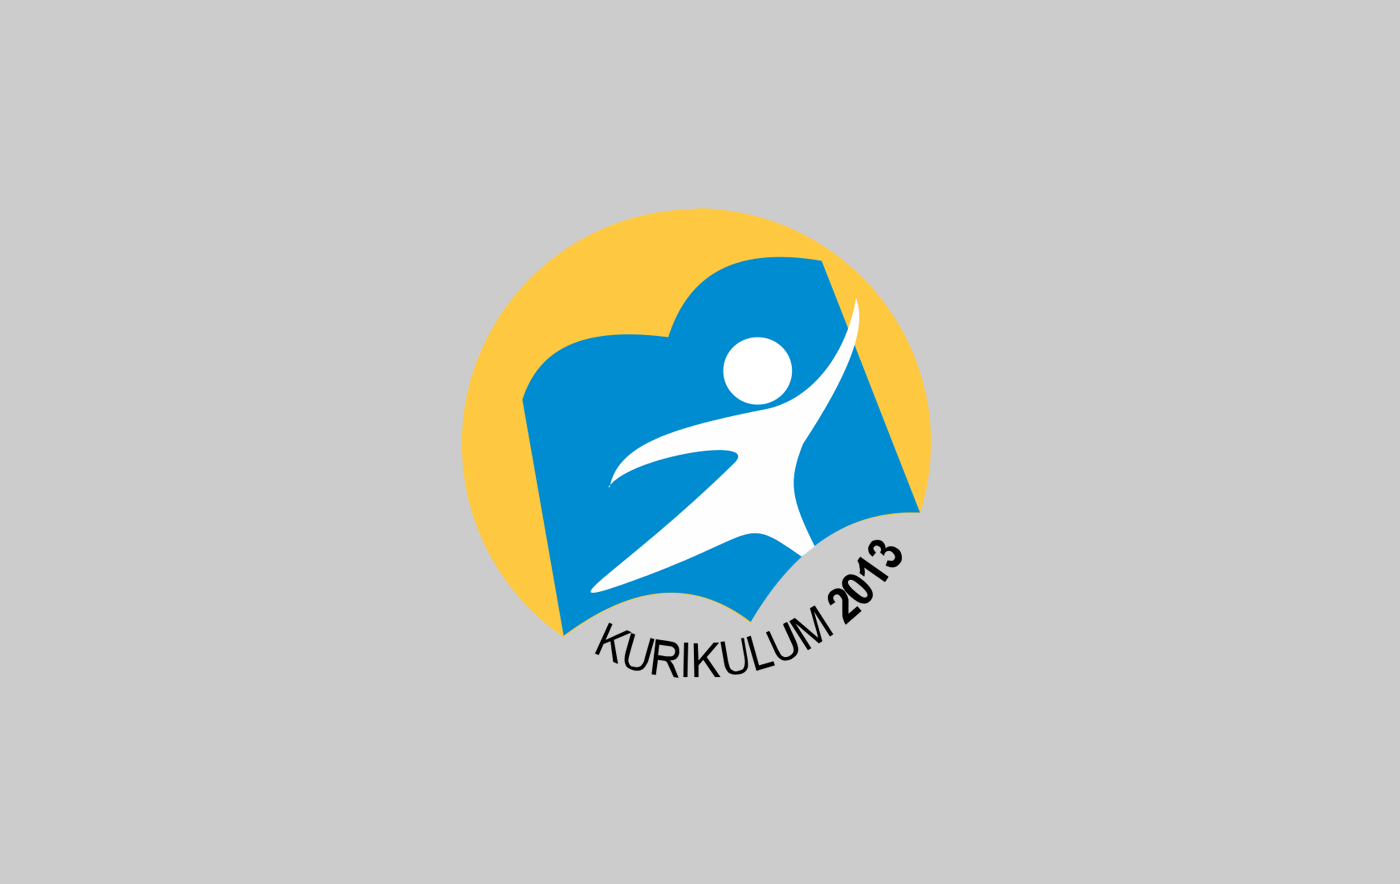
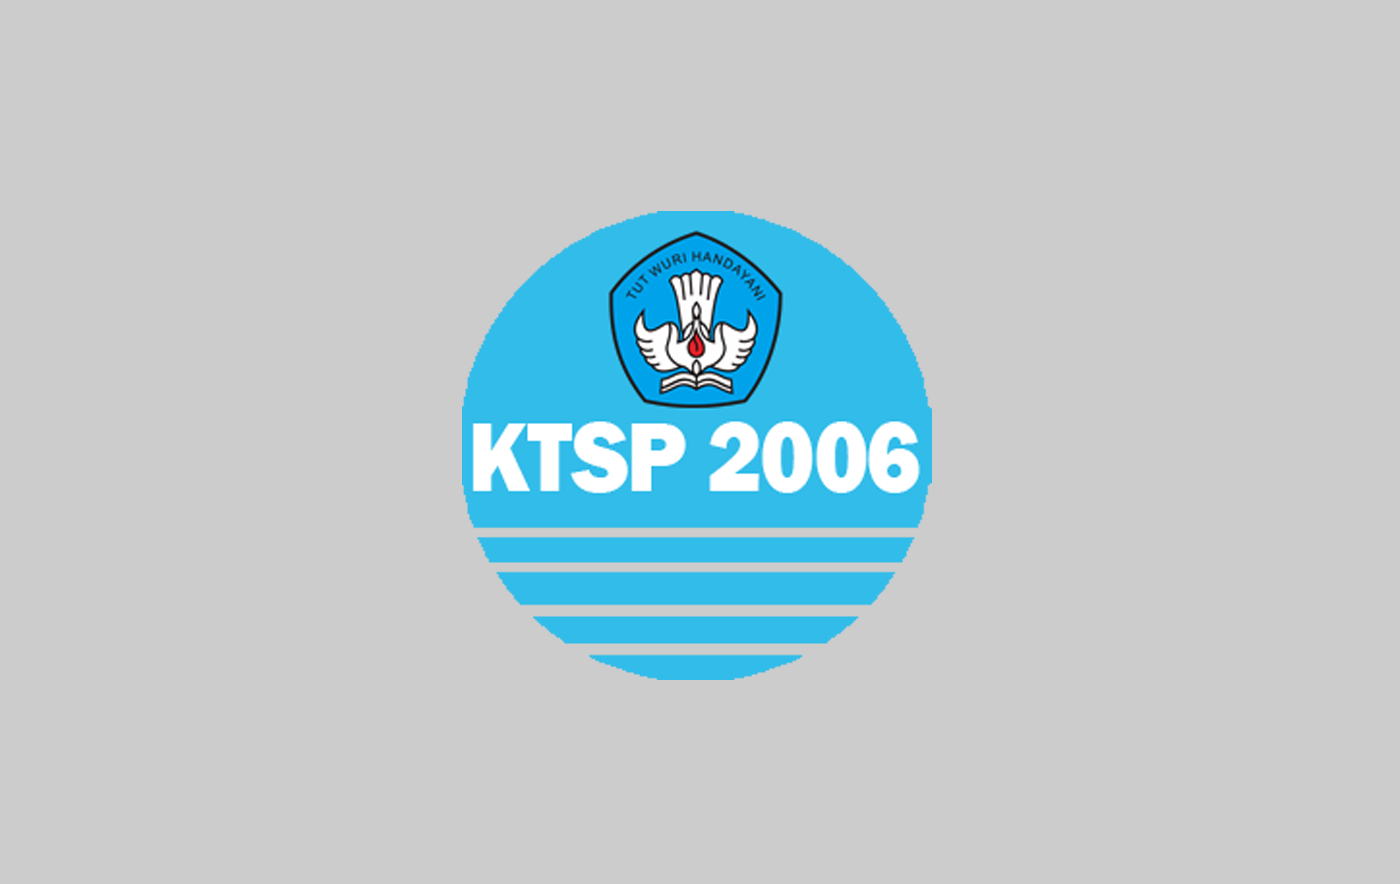
ubah text index dan modal. ganti image slider silabus

Changed region(s): [[0.3071, 0.2138, 0.6757, 0.7941]]

diff --git a/index.php b/index.php
@@ -170,21 +170,21 @@
 							<p class="paragraph">Penilaian adalah suatu proses yang dilakukan untuk mengukur dan menilai pencapaian tujuan pembelajaran serta untuk mengetahui kekuatan dan kelemahan dalam proses pembelajaran. Penilaian hasil belajar oleh pendidik terdiri atas Ulangan Harian, Ulangan Tengah Semester, Ulangan Akhir Semester, dan Ulangan Kenaikan Kelas.</p>
 							<p class="paragraph">Dalam rangka proses penilaian, untuk melaksanakan penilaian tersebut guru menyusun Teknik dan Instrumen Penilaian. Penyusunan Teknik dan Instrumen perlu di lakukan sebaik-baiknya sehingga dapat mengukur kompetensi siswa dan mencapai tujuan pembelajaran. Penyusunan Instrumen juga perlu memperhatikan keterselenggaraannya. Baik diperhatikan indikator pembelajarannya, tingkat berpikirnya, tingkat kesukaran dan daya pembeda yang nantinya akan di susun ke dalam tabel konstruksi soal yang disebut dengan kisi-kisi penyusunan soal.</p>
 							<p class="paragraph">Tapi dalam pelaksanaannya, terdapat banyak kendala bagi guru untuk menyusun konstruksi soal dan penilaian. Hal ini disebabkan oleh banyaknya peran dan tugas guru yang lain selain mengajar dan melakukan penilaian. Menyusun perangkat pembelajaran, mengelola kelas bagi yang bertugas sebagai wali kelas, panggilan siswa dan penanganan kasus, kepanitiaan dalan event-event sekolah yang tentunya semua ini akan menyita waktu. Belum juga ada guru yang jam mengajarnya sangat banyak (dalam pengalaman saya 40 jam) sehingga akan menjadi kendala dalam menyusun instrumen soal dan penilaian yang ideal.</p>
-							<p class="paragraph">Oleh karena itu, rekan-rekan guru dan pengajar sekalian. Perkenankanlah saya untuk berbagi pengalaman dengan rekan-rekan sekalian dimana saya Guru IPS SMP telah mengajar 10 tahun di SMP dan menjadi guru privat les membagikan soal-soal IPS SMP dari Kelas VII – IX hampir berjumlah 4.300 soal yang tentunya ini dapat membantu bapak/ibu rekan-rekan sekalian dalam penyusunan instrumen penilaian dan soal-soal. Jumlah soal sebanyak 4.300 tadi juga termasuk dengan soal Olimpiade IPS SMP yang tergolong “Langka” kita temui sebanyak 6 Jilid atau sebanyak 600 soal. Soal Olimpiade IPS SMP saya dapatkan secara pribadi pada saat pengalaman saya menjadi pembimbing OSN IPS Siswa sampai kepada tingkat provinsi.</p>
+							<p class="paragraph">Oleh karena itu, rekan-rekan guru dan pengajar sekalian, perkenankanlah saya untuk berbagi pengalaman dengan rekan-rekan sekalian dimana saya Guru IPS SMP telah mengajar 10 tahun di SMP dan menjadi guru privat les membagikan soal-soal IPS SMP dari Kelas VII – IX hampir berjumlah 4.300 soal yang tentunya ini dapat membantu bapak/ibu rekan-rekan sekalian dalam penyusunan instrumen penilaian dan soal-soal. Jumlah soal sebanyak 4.300 tadi juga termasuk dengan soal Olimpiade IPS SMP yang tergolong “Langka” kita temui sebanyak 6 Jilid atau sebanyak 600 soal. Soal Olimpiade IPS SMP saya dapatkan secara pribadi pada saat pengalaman saya menjadi pembimbing OSN IPS Siswa sampai kepada tingkat provinsi.</p>
 							<p class="paragraph">Secara umum, Isi Website ini antara lain :</p>
               <ol>
                 <li><strong>Soal IPS SMP Kelas VII s.d Kelas IX, untuk daftar soal secara lengkap dilampirkan bagian content.</strong></li>
                 <li>Try Out IPS Kelas IX.</li>
                 <li>Ujian Sekolah (Sebanyak 5 Paket).</li>
                 <li><strong>Soal Olimpiade Siswa Nasional (Sebanyak 6 Jilid).</strong></li>
-                <li>Rangkuman Materi IPS kelas VII s.d  IX, berdasarkan bahan ajar saya selama mengajar IPS SMP yang awalnya diperuntukkan untuk Rangkuman Foto Copy siswa.Silabus dan RPP IPS Kelas VII s.d IX KTSP yang merupakan hasil tulisan tangan saya sendiri (bukan yang beredar dan dapat didownload / bukan versi alam takambang), Silabus dan RPP tersebut sudah diakui bagus oleh Pengawas Sekolah.</li>
+                <li>Rangkuman Materi IPS kelas VII s.d  IX, berdasarkan bahan ajar saya selama mengajar IPS SMP yang awalnya diperuntukkan untuk Rangkuman Foto Copy siswa.</li>
                 <li><strong>Silabus dan RPP IPS Kelas VII s.d IX KTSP</strong> yang merupakan hasil tulisan tangan saya sendiri (bukan yang beredar dan dapat didownload / bukan versi alam takambang), Silabus dan RPP tersebut sudah diakui bagus oleh Pengawas Sekolah.</li>
                 <li><strong>RPP IPS Kelas 8 IPS Kurikulum 2013.</strong></li>
                 <li>Powerpoint untuk mengajar hampir sejumlah 100 file dari berbagai sumber.</li>
               </ol>
 							<p class="paragraph"><strong>Kelebihan File-file soal yang saya sediakan adalah semuanya berbentuk Office Word dan Power Point (Slide Mengajar).</strong> Saya berharap Website ini dapat membantu bapak/ibu dan rekan-rekan guru sekalian dalam menyusun instrumen soal dan penilaian. Menjadi One Stop Show dalam menyusun soal IPS SMP. Jangan tunggu lagi untuk mendaftar.</p>
 							<p class="paragraph">Beberapa sample file bapak/ibu dan rekan-rekan sekalian bisa download <a href="/soal-dan-materi/sample/1/" style="color:red;"><u>disini</u></a>.</p>
-							<p class="paragraph"><strong>Untuk administrasi pendaftaran, pemeliharaan dan hosting website, serta penyegaran materi. Kami meminta kesediaan bapak/ibu dan rekan-rekan sekalian untuk menyumbangkan dana sejumlah Rp35.000,- . Bapak/Ibu dan Rekan-rekan sekalian jangan berpikir sejumlah dana yang disumbangkan. Anggap saja ini sebagai jasa saya untuk mengetik soal-soal dan <i>web maintenance</i>. Jauh lebih banyak manfaat yang akan bapak/ibu dan rekan-rekan sekalian yang didapat. Untuk teknis pendaftaran bapak/ibu dan rekan-rekan sekalian dapat lihat di bagian syarat dan ketentuan pendaftaran.</strong></p>
+							<p class="paragraph"><strong>Untuk administrasi pendaftaran, pemeliharaan dan hosting website, serta penyegaran materi. Kami meminta kesediaan bapak/ibu dan rekan-rekan sekalian untuk mendonasikan dana sejumlah Rp 40.000,- . Bapak/Ibu dan Rekan-rekan sekalian jangan berpikir sejumlah dana yang didonasikan. Anggap saja ini sebagai jasa saya untuk mengetik soal-soal dan <i>web maintenance</i>. Jauh lebih banyak manfaat yang akan bapak/ibu dan rekan-rekan sekalian yang didapat. Untuk teknis pendaftaran bapak/ibu dan rekan-rekan sekalian dapat lihat di bagian syarat dan ketentuan pendaftaran.</strong></p>
 						</div>
 					</div>
 				</div><!--/.col-md-4-->
@@ -197,8 +197,8 @@
 			<div class="row">
 				<div class="col-md-3">
 					<h3>Contoh Soal</h3>
-					<p>Beberapa sample file bapak/ibu dan rekan-rekan sekalian bisa download.</p>
-					<a class="btn btn-danger" href="/soal-dan-materi/sample/1/">See all sample</a>
+					<p>Beberapa sampel file bapak/ibu dan rekan-rekan sekalian bisa download.</p>
+					<a class="btn btn-danger" href="/soal-dan-materi/sample/1/">Lihat semua sampel</a>
 					<p class="gap"></p>
 				</div>
 				<div class="col-md-9">

diff --git a/modal/not-login-modal.php b/modal/not-login-modal.php
@@ -6,8 +6,8 @@
 				<h4 class='modal-title' id='myModalLabel'>Akses Ditolak</h4>
 			</div>
 			<div class='modal-body'>
-				<p>Anda tidak dapat men-download konten ini karena Anda tidak login.</p>
-				<p>Silahkan login terlebih dahulu.</p>
+				<p>Anda belum bisa men-download konten ini karena Anda belum login/registrasi.</p>
+				<p>Silahkan login/registrasi terlebih dahulu.</p>
 				<p>Jika Anda tidak punya akun bisa daftar <a href="/registrasi" style="color:red">disini.</a></p>
 			</div>
 		</div>
